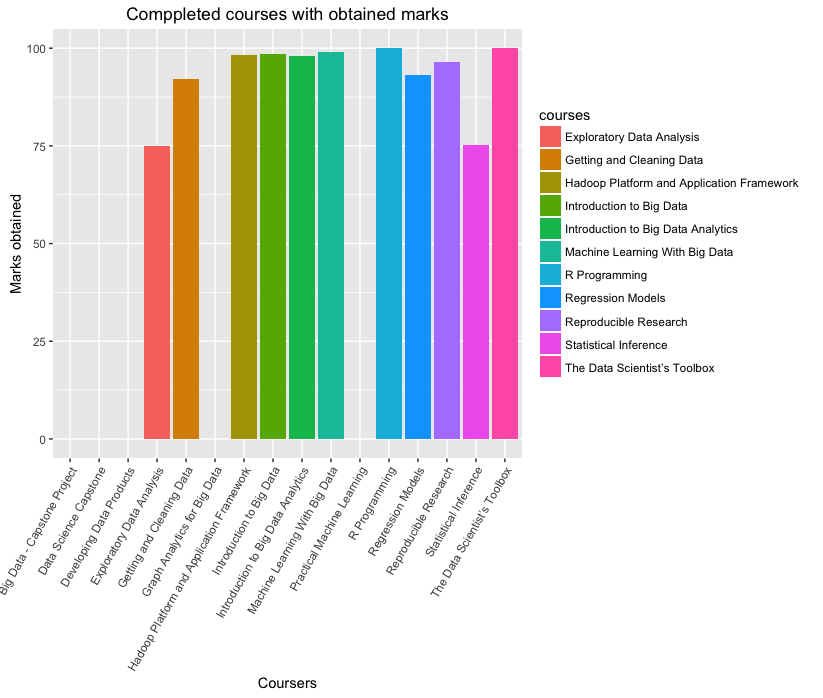
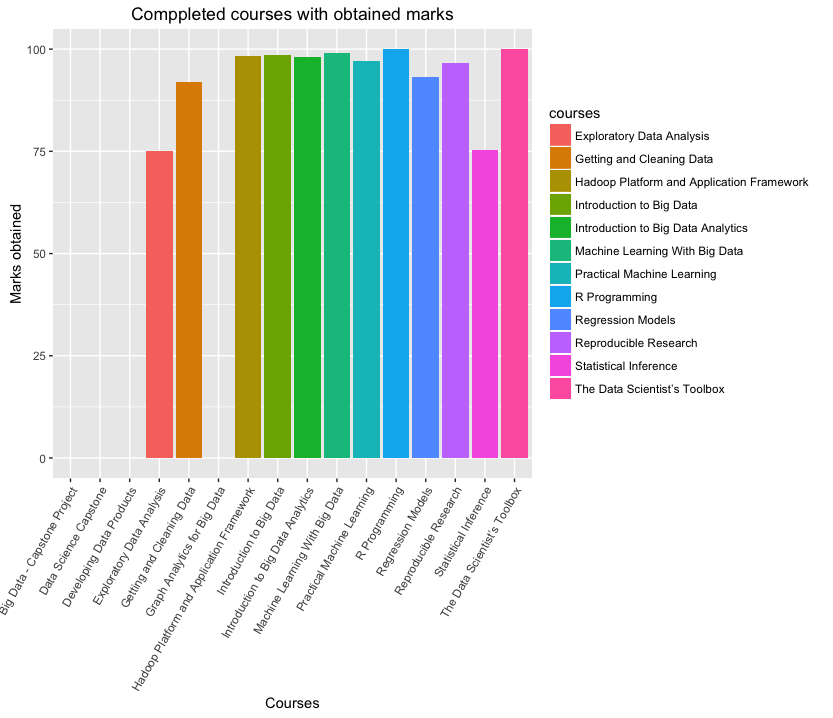
Added certificate of Practical Machine Learning

diff --git a/index.html b/index.html
@@ -174,7 +174,7 @@ keywords: Krishna Prasad, Krishna Prasad IIT Delhi, Krishna Prasad Jabong, Krish
 										<br>
 										<div class="progress">
 											<div class="progress-bar progress-bar-success" role="progressbar" aria-valuenow="67"
-											     aria-valuemin="0" aria-valuemax="100" style="width:70%;">
+											     aria-valuemin="0" aria-valuemax="100" style="width:66.66%;">
 												66.66% Completed successfully(4/6)
 											</div>
 										</div>
@@ -203,11 +203,12 @@ keywords: Krishna Prasad, Krishna Prasad IIT Delhi, Krishna Prasad Jabong, Krish
 												<a href="https://www.coursera.org/account/accomplishments/records/cGmWZgzwctDzXM7E" target="_blank">verification link</a>
 											</li>
 											<li>
-												<strong>Regression Models</strong>: Completed on Arpil - 2916, Grade Achieved: 93.1%
+												<strong>Regression Models</strong>: Completed on Arpil - 2016, Grade Achieved: 93.1%
 												<a href="https://www.coursera.org/account/accomplishments/records/DH3W5TJBE3EA" target="_blank">verification link</a>
 											</li>
 											<li>
-												<strong>Practical Machine Learning</strong>: On going
+												<strong>Practical Machine Learning</strong>: Completed on July - 2016, Grade Achieved: 97.0%
+												<a href="https://www.coursera.org/account/accomplishments/certificate/RENRPFKYM3WR" target="_blank">verification link</a>
 											</li>
 
 											<li>
@@ -221,8 +222,8 @@ keywords: Krishna Prasad, Krishna Prasad IIT Delhi, Krishna Prasad Jabong, Krish
 										<br>
 										<div class="progress">
 											<div class="progress-bar progress-bar-success" role="progressbar" aria-valuenow="67"
-											     aria-valuemin="0" aria-valuemax="100" style="width:70%;">
-												66.66% Completed successfully(6/9)
+											     aria-valuemin="0" aria-valuemax="100" style="width:77.78%;">
+												77.78% Completed successfully(7/9)
 											</div>
 										</div>
 									</li>
